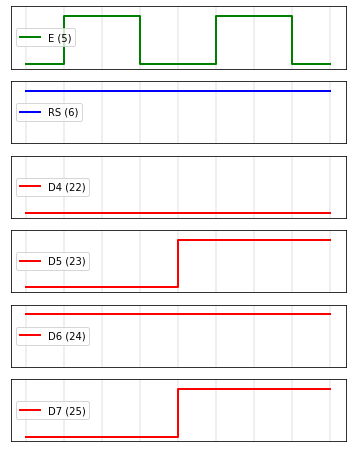
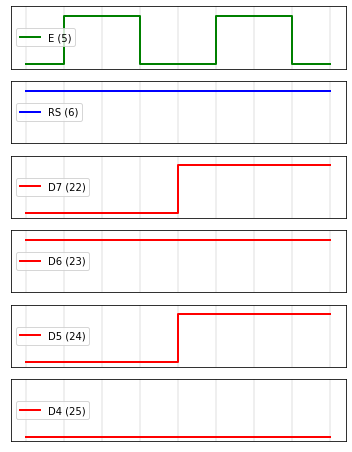
Update image and pin mapping

diff --git a/lab4/parallel.html b/lab4/parallel.html
@@ -268,10 +268,10 @@ cd ~/lab-parallel</code></pre>
 <div class="sourceCode" id="cb4"><pre class="sourceCode python"><code class="sourceCode python"><span id="cb4-1"><a href="#cb4-1" aria-hidden="true"></a><span class="co"># GPIO pin to LCD pin mapping</span></span>
 <span id="cb4-2"><a href="#cb4-2" aria-hidden="true"></a>LCD_RS <span class="op">=</span> <span class="dv">6</span></span>
 <span id="cb4-3"><a href="#cb4-3" aria-hidden="true"></a>LCD_E  <span class="op">=</span> <span class="dv">5</span></span>
-<span id="cb4-4"><a href="#cb4-4" aria-hidden="true"></a>LCD_D4 <span class="op">=</span> <span class="dv">22</span></span>
-<span id="cb4-5"><a href="#cb4-5" aria-hidden="true"></a>LCD_D5 <span class="op">=</span> <span class="dv">23</span></span>
-<span id="cb4-6"><a href="#cb4-6" aria-hidden="true"></a>LCD_D6 <span class="op">=</span> <span class="dv">24</span></span>
-<span id="cb4-7"><a href="#cb4-7" aria-hidden="true"></a>LCD_D7 <span class="op">=</span> <span class="dv">25</span></span></code></pre></div>
+<span id="cb4-4"><a href="#cb4-4" aria-hidden="true"></a>LCD_D4 <span class="op">=</span> <span class="dv">25</span></span>
+<span id="cb4-5"><a href="#cb4-5" aria-hidden="true"></a>LCD_D5 <span class="op">=</span> <span class="dv">24</span></span>
+<span id="cb4-6"><a href="#cb4-6" aria-hidden="true"></a>LCD_D6 <span class="op">=</span> <span class="dv">23</span></span>
+<span id="cb4-7"><a href="#cb4-7" aria-hidden="true"></a>LCD_D7 <span class="op">=</span> <span class="dv">22</span></span></code></pre></div>
 <p>You may be wondering why we used the <code>LCD_</code> prefix for each variable name - isn’t it obvious what <code>RS</code> is, even without the <code>LCD_</code> prefix? However, in most projects we will have more than one peripheral connected to the Pi, so it’s helpful to prefix all of the constants and functions related to a particular peripheral, with that peripheral’s name.</p>
 <p>We’ll add more constant variables to this section later. For now, though, we’ll define a few functions. To make it easier to debug, we’ll define them as “dummy” functions (empty functions that don’t do anything), so that we can immediately use them and test their integration in the overall program - then we’ll fill them in gradually.</p>
 <p>Add three “dummy” function definitions and set up the <code>main</code> function:</p>

diff --git a/lab4/parallel.md b/lab4/parallel.md
@@ -289,10 +289,10 @@ Then set up your GPIO pin to LCD pin mapping. It's conventional to define these 
 # GPIO pin to LCD pin mapping
 LCD_RS = 6
 LCD_E  = 5
-LCD_D4 = 22
-LCD_D5 = 23
-LCD_D6 = 24
-LCD_D7 = 25
+LCD_D4 = 25
+LCD_D5 = 24
+LCD_D6 = 23
+LCD_D7 = 22
 ```
 
 You may be wondering why we used the `LCD_` prefix for each variable name - isn't it obvious what `RS` is, even without the `LCD_` prefix? However, in most projects we will have more than one peripheral connected to the Pi, so it's helpful to prefix all of the constants and functions related to a particular peripheral, with that peripheral's name.
